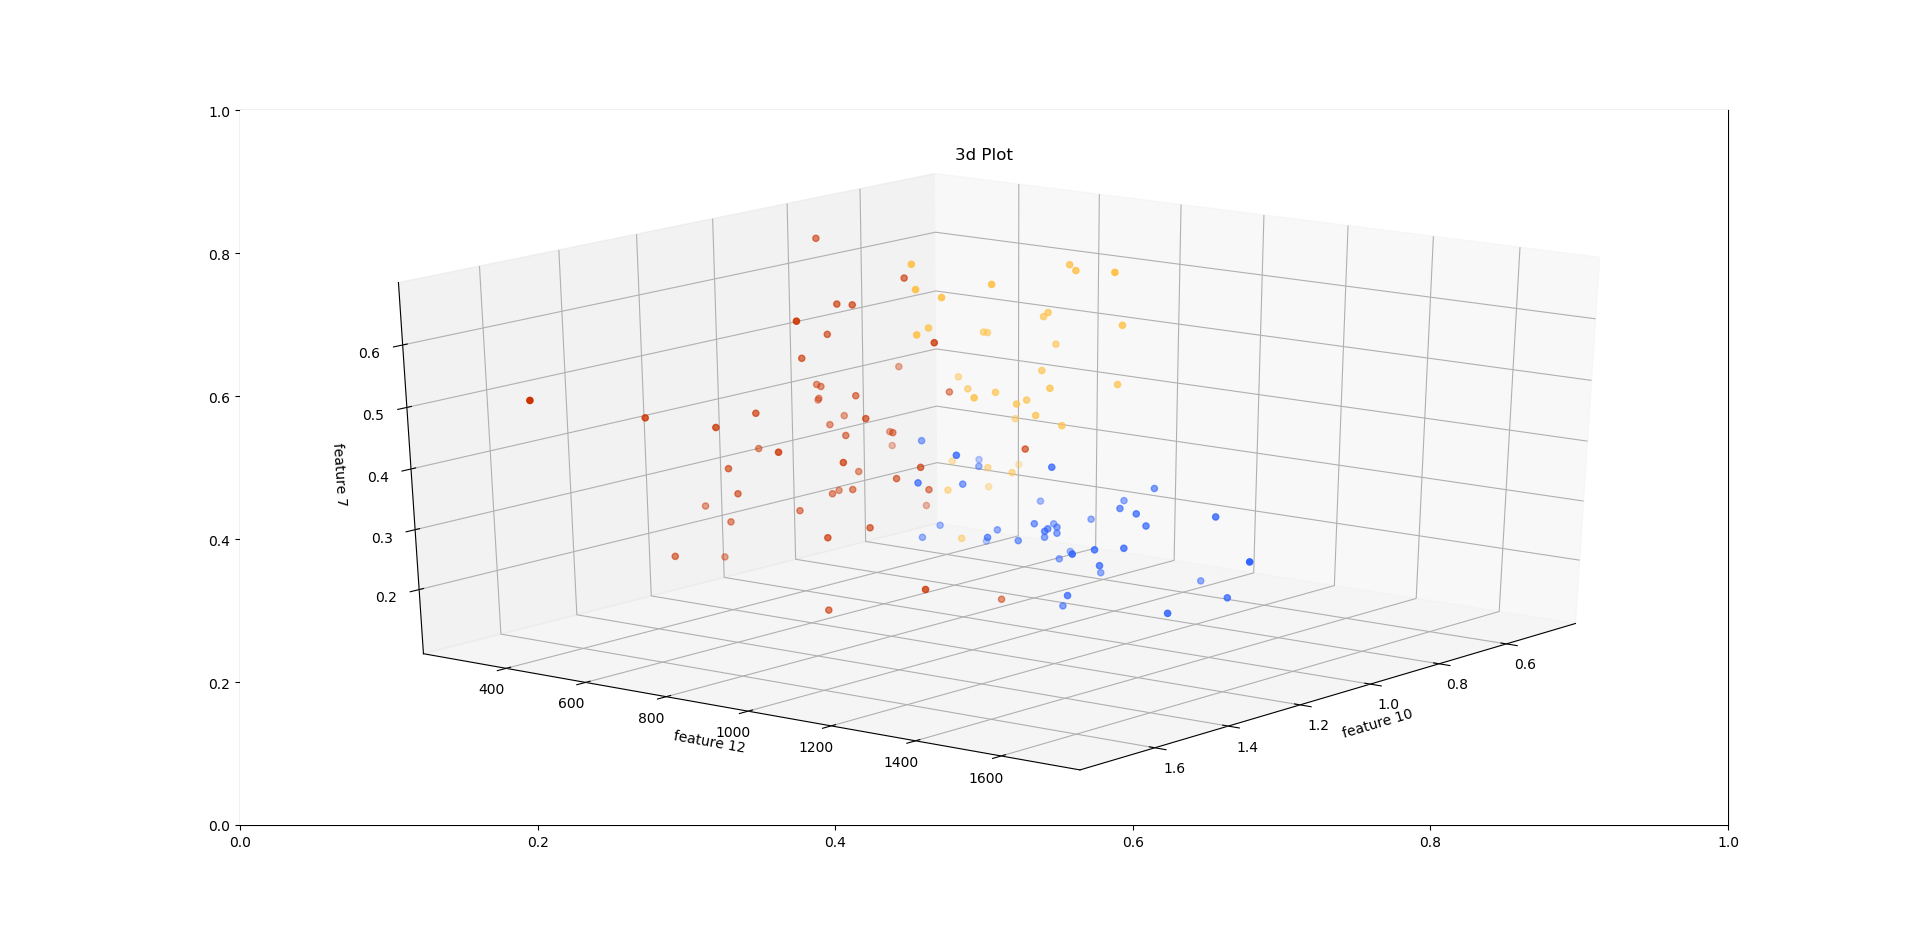
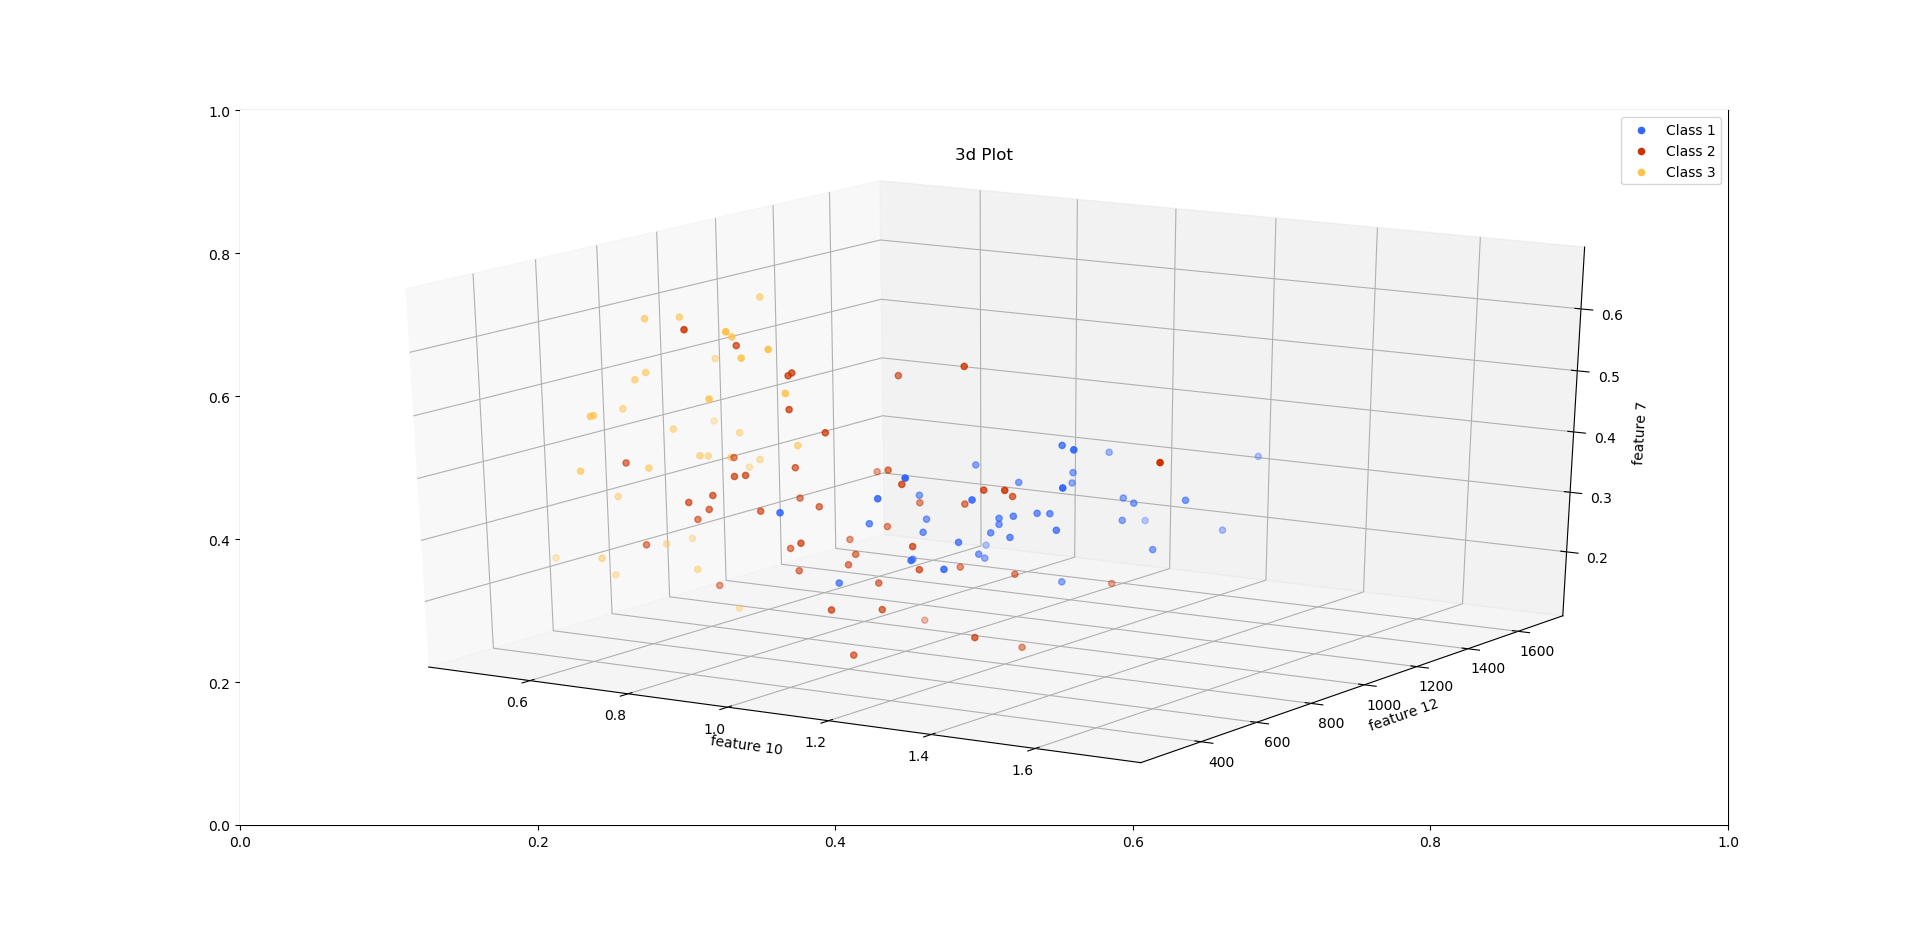
gave 3d plot a legend

diff --git a/wine_classifier.py b/wine_classifier.py
@@ -245,13 +245,6 @@ def knn_three_features(train_set, train_labels, test_set, k, **kwargs):
     # print(feature)
     reduced_train_set = np.column_stack((reduced_train_set, train_set[:, feature]))
     reduced_test_set = np.column_stack((reduced_test_set, test_set[:, feature]))
-    # fig,ax = plt.subplots()
-    # ax = fig.gca(projection = '3d')
-    # ax.set_xlabel(xlabel = "feature 10")
-    # ax.set_ylabel(ylabel = "feature 12")
-    # ax.set_zlabel(zlabel = "feature " + str(feature))
-    # plt.scatter(reduced_train_set[:,0],reduced_train_set[:,1],reduced_train_set[:,2])
-    # plt.show()
     fig,ax = plt.subplots()
     ax = fig.gca(projection = '3d')
     ax.set_xlabel(xlabel = "feature 10")
@@ -260,7 +253,8 @@ def knn_three_features(train_set, train_labels, test_set, k, **kwargs):
     plt.title("3d Plot")
     for i in range(len(class_colours)):
         arr = getColours(i,reduced_train_set)
-        ax.scatter(arr[:,0],arr[:,1],arr[:,2],c = class_colours[i])
+        ax.scatter(arr[:,0],arr[:,1],arr[:,2],c = class_colours[i],label = 'Class ' + str(i + 1))
+    ax.legend()
     plt.show()
     #knn algorithm
     classifiedTests = [] # stores the result of classification for each data sample
